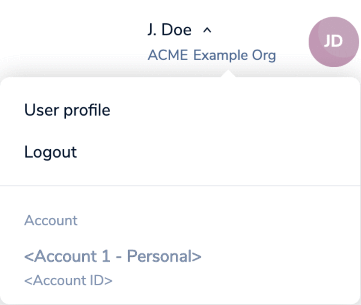
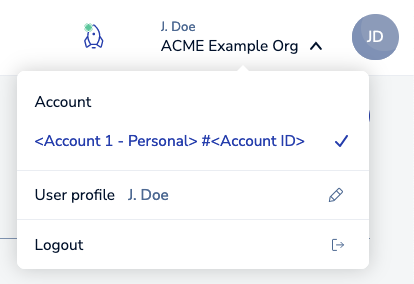
Doc 2925 updated image and fixed RC console link (#2931)
* DOC-2925 corrected Redis Cloud console link.

* DOC-2925 updated user profile dropdown image.

diff --git a/content/rc/accounts/user-profile.md b/content/rc/accounts/user-profile.md
@@ -11,7 +11,7 @@ aliases: [
    "/rc/administration/multiple-accounts.md",
 ]
 ---
-When you sign in to the Redis Cloud [admin console](https://app.redislabs.com/), you use a profile associated with one or more Redis Cloud accounts.  
+When you sign in to the [Redis Cloud console](https://app.redislabs.com/), you use a profile associated with one or more Redis Cloud accounts.  
 
 This account has a profile with settings that you can manage using the Profile control located near the top, right corner of the admin console:
 
